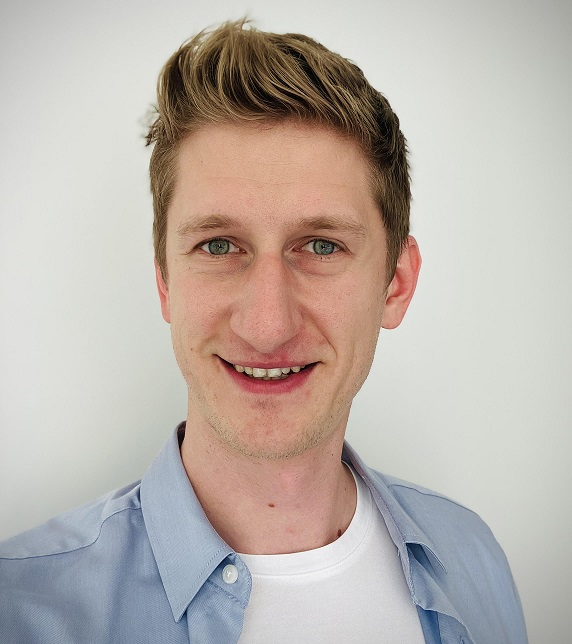
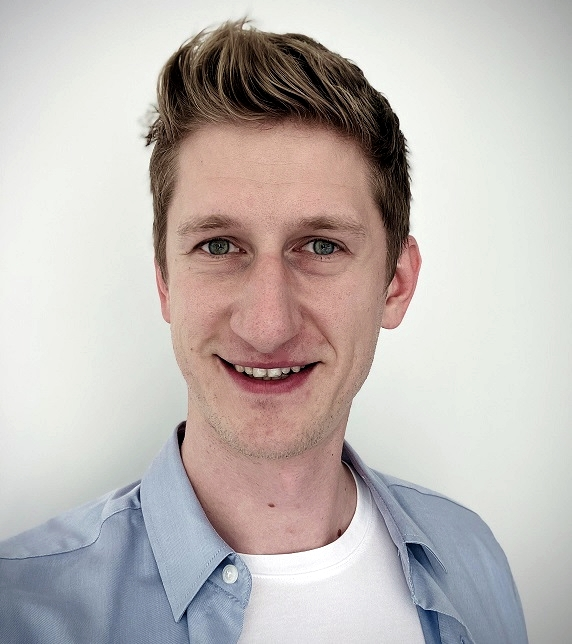
Removed redundant items, changed profile pic colors, widen left col

diff --git a/index.html b/index.html
@@ -118,7 +118,7 @@
                         <h2>
                             Education
                         </h2>
-                        <p>Bachelor in Philosophy</p>
+                        <p>UPJS Kosice - Philosophy [Bc]</p>
                     </section>
                     
                     <section class="certification">
@@ -139,110 +139,113 @@
                     <h2>
                         Tech skills
                     </h2>
-                    
-                    <button id="python_button" onclick="showOrHide('python')">                    
-                        <img class="icon" src="./images/icons/python.png" alt="python icon">
-                        <br>
-                        Python
-                        <img class="large_screen" src="./images/skill_levels/advanced.png" alt="advanced">
-                    </button>
-                    <div class="detailsBox" id='python'>
-                        <div class="skillLevel basicDetail">
-                            Proficiency: 
-                            <img src="./images/skill_levels/advanced.png" alt="advanced">
+                    <p><em>Click the buttons for more details.</em></p>
+
+                    <div class="buttons">
+                        <button id="python_button" onclick="showOrHide('python')">                    
+                            <img class="icon" src="./images/icons/python.png" alt="python icon">
+                            <br>
+                            Python
+                            <img class="large_screen" src="./images/skill_levels/advanced.png" alt="advanced">
+                        </button>
+                        <div class="detailsBox" id='python'>
+                            <div class="skillLevel basicDetail">
+                                Proficiency: 
+                                <img src="./images/skill_levels/advanced.png" alt="advanced">
+                            </div>
+                            First script written in 2018 - data collection via REST API, parsing and storing. Currently working on backend development for monitoring tool and web development projects, mini text game as a personal project. 
+                            <br><br>
+                            I am interested in code design. I find peace in refactoring, when you can see your own progress on refactored code. I enjoy exploring some new design pattern in my free time.
                         </div>
-                        First script written in 2018 - data collection via REST API, parsing and storing. Currently working on backend development for monitoring tool and web development projects, mini text game as a personal project. 
-                        <br><br>
-                        I am interested in code design. I find peace in refactoring, when you can see your own progress on refactored code. I enjoy exploring some new design pattern in my free time.
-                    </div>
-                    
-                    <button id="discovery_button" onclick="showOrHide('discovery')">                    
-                        <img class="icon" src="./images/icons/discovery.png" alt="discovery icon">
-                        <br>
-                        Discovery
-                        <img class="large_screen" src="./images/skill_levels/advanced.png" alt="advanced">
-                    </button>
-                    <div class="detailsBox" id='discovery'>
-                        <div class="skillLevel basicDetail">
-                            Proficiency: 
-                            <img src="./images/skill_levels/advanced.png" alt="advanced">
+                        
+                        <button id="discovery_button" onclick="showOrHide('discovery')">                    
+                            <img class="icon" src="./images/icons/discovery.png" alt="discovery icon">
+                            <br>
+                            Discovery
+                            <img class="large_screen" src="./images/skill_levels/advanced.png" alt="advanced">
+                        </button>
+                        <div class="detailsBox" id='discovery'>
+                            <div class="skillLevel basicDetail">
+                                Proficiency: 
+                                <img src="./images/skill_levels/advanced.png" alt="advanced">
+                            </div>
+                            Asset Discovery and inventory to maintain the overview of the infrastructure and services.  Discovery and inventory also play important role in SW licensing (e.g. counting CPU cores per VMs)
+                            <br><br>
+                            Experienced with Universal Discovery and UCMDB by MicroFocus, TAD4D by IBM and FNMS by Flexera.
                         </div>
-                        Asset Discovery and inventory to maintain the overview of the infrastructure and services.  Discovery and inventory also play important role in SW licensing (e.g. counting CPU cores per VMs)
-                        <br><br>
-                        Experienced with Universal Discovery and UCMDB by MicroFocus, TAD4D by IBM and FNMS by Flexera.
-                    </div>
-                    
-                    <button id="scripting_button" onclick="showOrHide('scripting')">                    
-                        <img class="icon" src="./images/icons/script.png" alt="script icon">
-                        <br>
-                        Scripting
-                        <img class="large_screen" src="./images/skill_levels/intermediate.png" alt="advanced">
-                    </button>
-                    <div class="detailsBox" id='scripting'>
-                        <div class="skillLevel basicDetail">
-                            Proficiency: 
-                            <img src="./images/skill_levels/intermediate.png" alt="intermediate">
+                        
+                        <button id="scripting_button" onclick="showOrHide('scripting')">                    
+                            <img class="icon" src="./images/icons/script.png" alt="script icon">
+                            <br>
+                            Scripting
+                            <img class="large_screen" src="./images/skill_levels/intermediate.png" alt="advanced">
+                        </button>
+                        <div class="detailsBox" id='scripting'>
+                            <div class="skillLevel basicDetail">
+                                Proficiency: 
+                                <img src="./images/skill_levels/intermediate.png" alt="intermediate">
+                            </div>
+                            Lazy engineer is a good engineer. Writing automation scripts helps use time efficiently (getting rid of manual work) while improving skillset. Win - win. Experienced with BASH, Powershell and Python.
                         </div>
-                        Lazy engineer is a good engineer. Writing automation scripts helps use time efficiently (getting rid of manual work) while improving skillset. Win - win. Experienced with BASH, Powershell and Python.
-                    </div>
-                    
-                    <button id="monitoring_button" onclick="showOrHide('monitoring')">                    
-                        <img class="icon" src="./images/icons/monitoring.png" alt="monitoring icon">
-                        <br>
-                        Monitoring
-                        <img class="large_screen" src="./images/skill_levels/intermediate.png" alt="advanced">
-                    </button>
-                    <div class="detailsBox" id='monitoring'>
-                        <div class="skillLevel basicDetail">
-                            Proficiency: 
-                            <img src="./images/skill_levels/intermediate.png" alt="intermediate">
+                        
+                        <button id="monitoring_button" onclick="showOrHide('monitoring')">                    
+                            <img class="icon" src="./images/icons/monitoring.png" alt="monitoring icon">
+                            <br>
+                            Monitoring
+                            <img class="large_screen" src="./images/skill_levels/intermediate.png" alt="advanced">
+                        </button>
+                        <div class="detailsBox" id='monitoring'>
+                            <div class="skillLevel basicDetail">
+                                Proficiency: 
+                                <img src="./images/skill_levels/intermediate.png" alt="intermediate">
+                            </div>
+                            Familiarity with log and metric collections and processing, SNMP protocol, REST API. Experienced in SAM by MicroFocus and Sensu by Sumo Logic. Also created some scripts and Python modules for data collection and parsing.
                         </div>
-                        Familiarity with log and metric collections and processing, SNMP protocol, REST API. Experienced in SAM by MicroFocus and Sensu by Sumo Logic. Also created some scripts and Python modules for data collection and parsing.
-                    </div>
-                    
-                    <button id="linux_button" onclick="showOrHide('linux')">                    
-                        <img class="icon" src="./images/icons/linux.png" alt="linux icon">
-                        <br>
-                        Linux
-                        <img class="large_screen" src="./images/skill_levels/intermediate.png" alt="advanced">
-                    </button>
-                    <div class="detailsBox" id='linux'>
-                        <div class="skillLevel basicDetail">
-                            Proficiency: 
-                            <img src="./images/skill_levels/intermediate.png" alt="intermediate">
+                        
+                        <button id="linux_button" onclick="showOrHide('linux')">                    
+                            <img class="icon" src="./images/icons/linux.png" alt="linux icon">
+                            <br>
+                            Linux
+                            <img class="large_screen" src="./images/skill_levels/intermediate.png" alt="advanced">
+                        </button>
+                        <div class="detailsBox" id='linux'>
+                            <div class="skillLevel basicDetail">
+                                Proficiency: 
+                                <img src="./images/skill_levels/intermediate.png" alt="intermediate">
+                            </div>
+                            Basic Linux operations – SSH, SCP, system orientation, files/folders manipulation, permissions, users/groups, text editing, process management…
                         </div>
-                        Basic Linux operations – SSH, SCP, system orientation, files/folders manipulation, permissions, users/groups, text editing, process management…
-                    </div>
-                    
-                    <button id="ELK_button" onclick="showOrHide('ELK')">                    
-                        <img class="icon" src="./images/icons/elastic.png" alt="elastic icon">
-                        <br>
-                        ELK
-                        <img class="large_screen" src="./images/skill_levels/novice.png" alt="advanced">
-                    </button>
-                    <div class="detailsBox" id='ELK'>
-                        <div class="skillLevel basicDetail">
-                            Proficiency: 
-                            <img src="./images/skill_levels/novice.png" alt="novice">
+                        
+                        <button id="ELK_button" onclick="showOrHide('ELK')">                    
+                            <img class="icon" src="./images/icons/elastic.png" alt="elastic icon">
+                            <br>
+                            ELK
+                            <img class="large_screen" src="./images/skill_levels/novice.png" alt="advanced">
+                        </button>
+                        <div class="detailsBox" id='ELK'>
+                            <div class="skillLevel basicDetail">
+                                Proficiency: 
+                                <img src="./images/skill_levels/novice.png" alt="novice">
+                            </div>
+                            Experienced with some logstash plugins, data filtering, index lifecycle, data aggregation, Kibana orientation, visualizations.
                         </div>
-                        Experienced with some logstash plugins, data filtering, index lifecycle, data aggregation, Kibana orientation, visualizations.
-                    </div>
-                    
-                    <button id="others_button" onclick="showOrHide('others')">
-                        <img class="icon" src="./images/icons/other.png" alt="others icon">
-                        <br>
-                        Others
-                    </button>
-                    <div class="detailsBox" id='others'>
-                        <p class="basicDetail">
-                            Good grasp of basics:
-                        </p>
-                        Git, HTML/CSS, Networking, Security concepts<br>
-                        <br>
-                        <p class="basicDetail">
-                            Some hands-on experience:
-                        </p>
-                        AWS, Ansible, REST API, SQL and non-SQL DBs (SQLite, ETCD), Windows Server, Kafka
+                        
+                        <button id="others_button" onclick="showOrHide('others')">
+                            <img class="icon" src="./images/icons/other.png" alt="others icon">
+                            <br>
+                            Others
+                        </button>
+                        <div class="detailsBox" id='others'>
+                            <p class="basicDetail">
+                                Good grasp of basics:
+                            </p>
+                            Git, HTML/CSS, Networking, Security concepts<br>
+                            <br>
+                            <p class="basicDetail">
+                                Some hands-on experience:
+                            </p>
+                            AWS, Ansible, REST API, SQL and non-SQL DBs (SQLite, ETCD), Windows Server, Kafka
+                        </div>
                     </div>
                 </section>
 

diff --git a/css/main.css b/css/main.css
@@ -15,9 +15,6 @@ body {
     margin: 0px;
 }
 
-.envelope {
-    border-radius: 1.2rem;
-}
 .container {
     background-color: #1b2530;
     margin: 0px auto;
@@ -131,7 +128,7 @@ section {
     line-height: 1.5rem;
 }
 
-.main_list > li {
+.main_list > li:not(:last-of-type)  {
     margin-bottom: 70px;
 }
 
@@ -154,23 +151,6 @@ button {
     transition: background-color 0.2s ease-out, box-shadow 0.2s ease-out;
     box-shadow: 3px 3px 4px black;
 }
-
-button.link {
-    border-top-left-radius: 0px;
-    border-bottom-left-radius: 0px;
-    margin-left: -10px;
-    -webkit-transition: color 0.5s ease;
-    -moz-transition: color 0.5s ease;
-    -o-transition: color 0.5s ease;
-    transition: color 0.5s ease;
-    -webkit-transition: background-color 0.2s ease-out, box-shadow 0.2s ease-out;
-    -moz-transition: background-color 0.2s ease-out, box-shadow 0.2s ease-out;
-    -o-transition: background-color 0.2s ease-out, box-shadow 0.2s ease-out;
-    transition: background-color 0.2s ease-out, box-shadow 0.2s ease-out;
-    box-shadow: 0px 3px 4px black;
-}
-
-
 
 .skillLevel {
     border-bottom: 2px solid #F18F01;
@@ -261,7 +241,7 @@ a {
     .sections {
         display: grid;
         text-align: left;
-        grid-template-columns: 1fr 3fr;
+        grid-template-columns: 1fr 2fr;
         grid-template-areas: 
         "left right";
         row-gap: 10px;
@@ -384,19 +364,6 @@ a {
         color: #DCEDFF;
     }
 
-    button.link {
-        border-radius: 10px;
-        border: none;
-        margin: 10px 10px;
-        padding: 5px 15px;
-        display: inline-block;
-        -webkit-transition: background-color 0.2s ease-out, box-shadow 0.2s ease-out;
-        -moz-transition: background-color 0.2s ease-out, box-shadow 0.2s ease-out;
-        -o-transition: background-color 0.2s ease-out, box-shadow 0.2s ease-out;
-        transition: background-color 0.2s ease-out, box-shadow 0.2s ease-out;
-        box-shadow: 3px 3px 4px black;
-    }
-
     p.large_screen {
         font-size: 0.8em;
         margin-top: 10px;
@@ -426,6 +393,4 @@ a {
     button.link:hover {
         box-shadow: 0px 5px 5px black;
     }
-
-
   }
